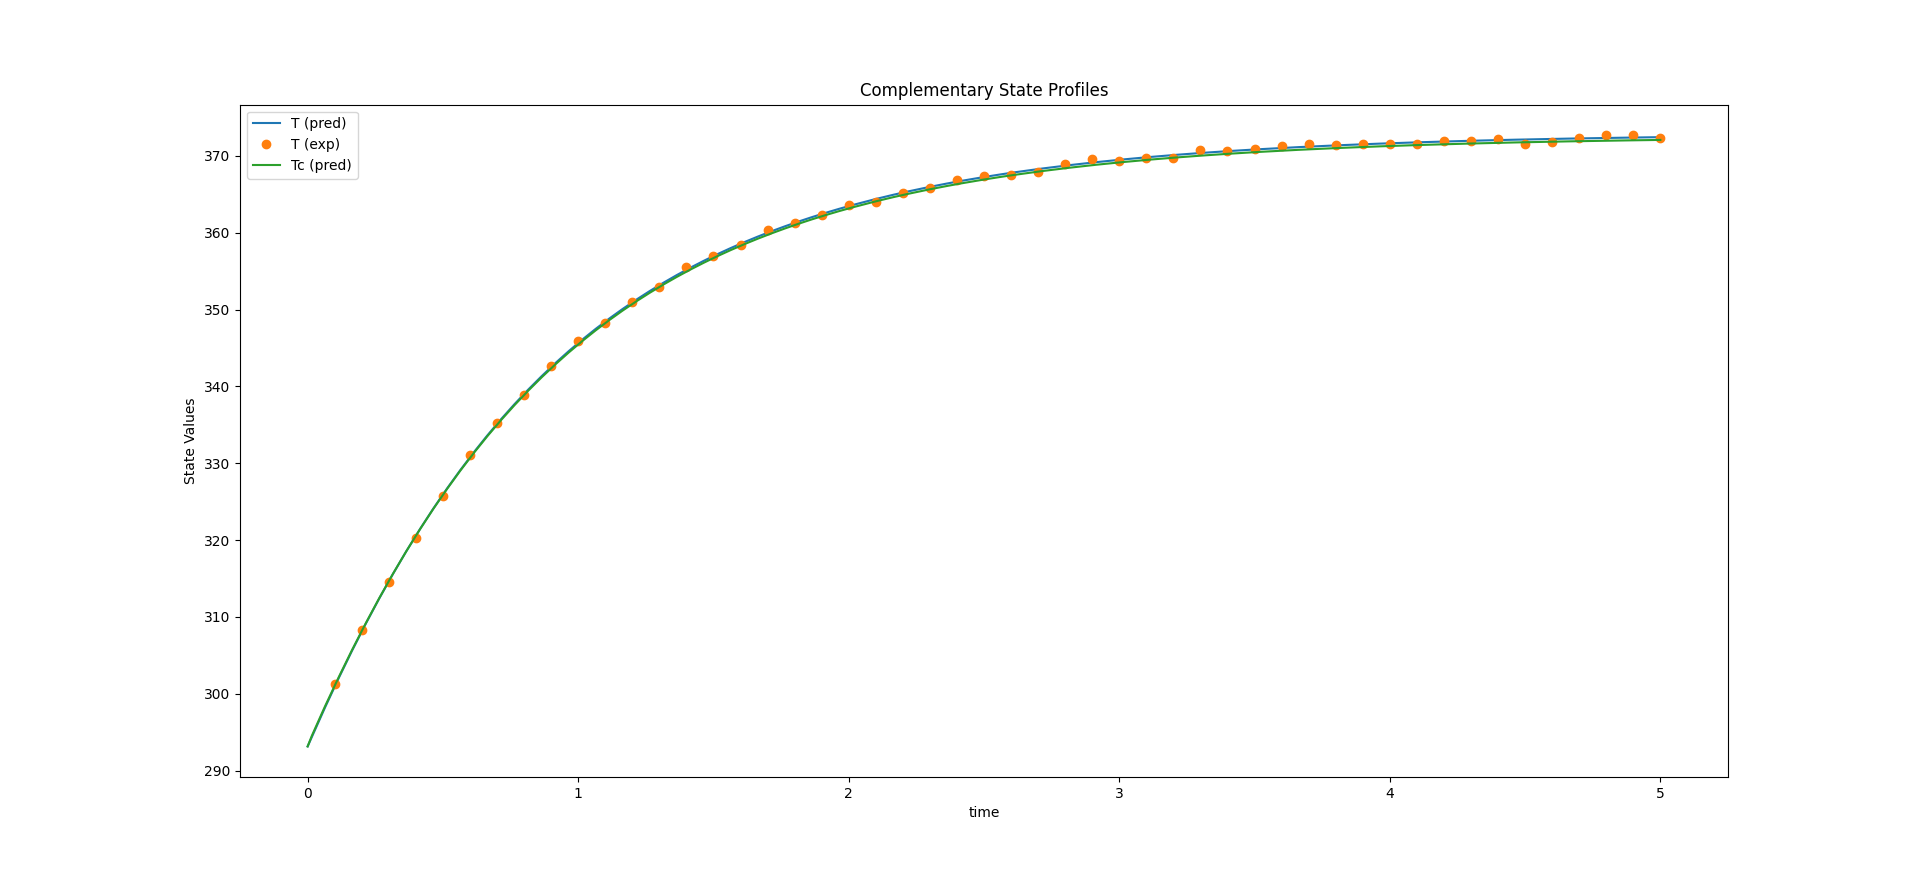
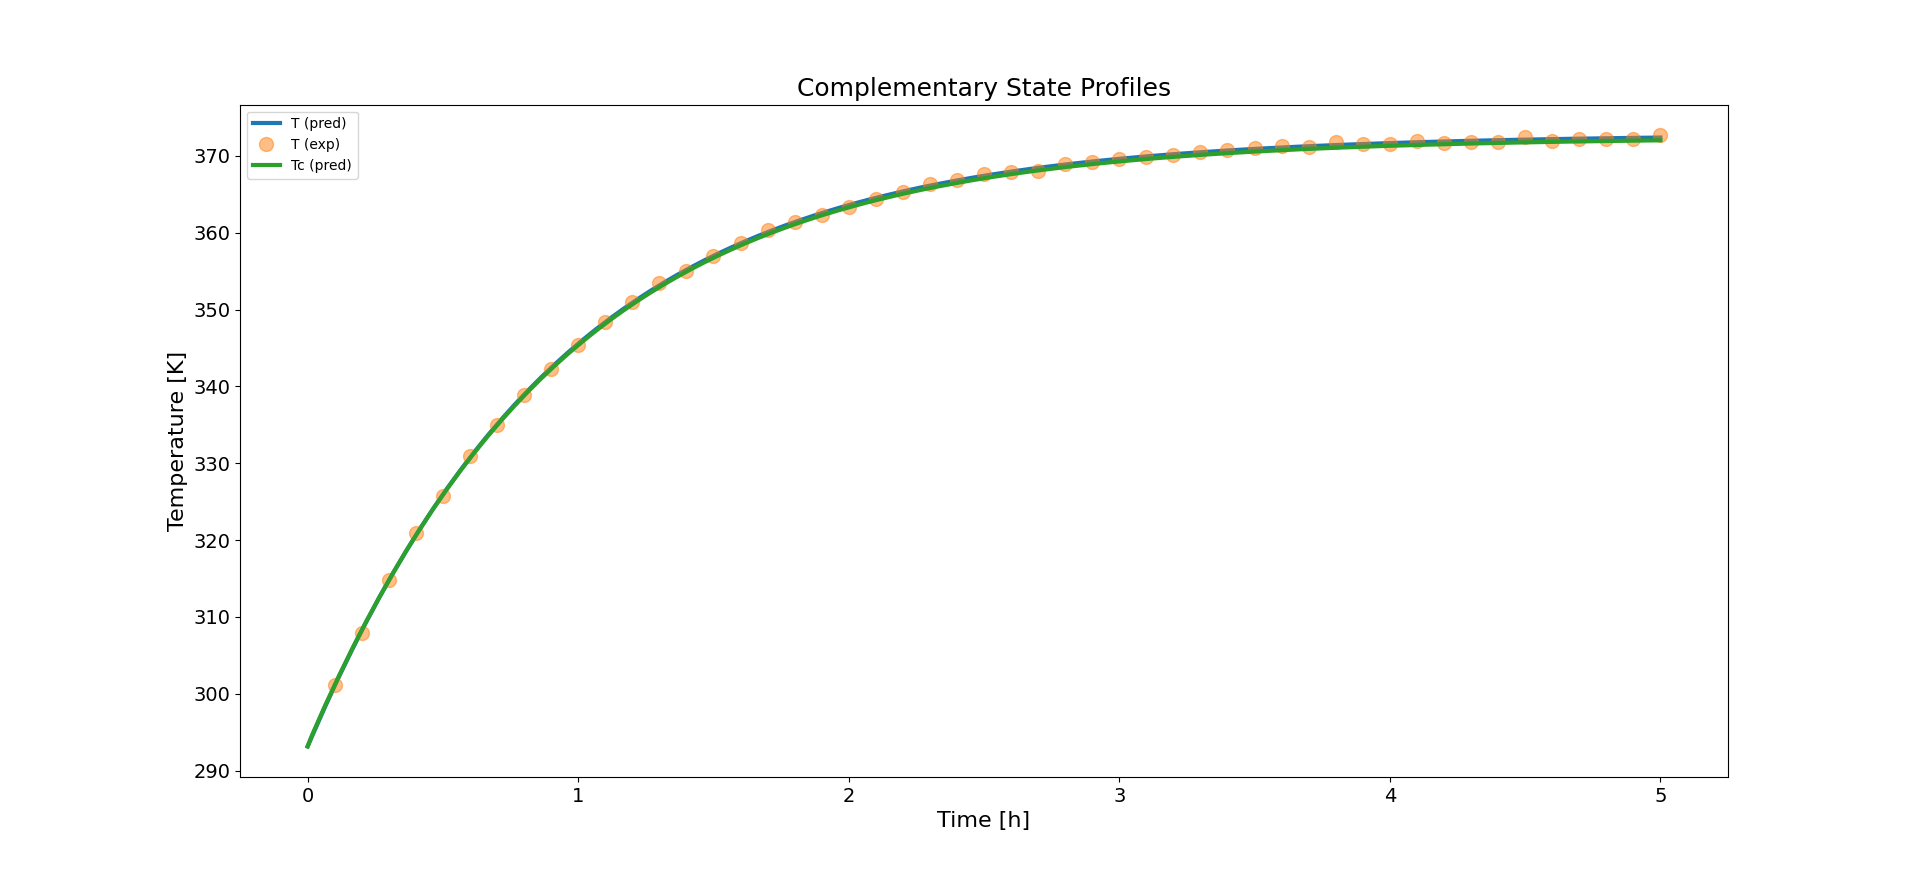
Updated documentation, improved figures

diff --git a/kipet/examples/Ex_CSTR_estimability_temperature_concentration.py b/kipet/examples/Ex_CSTR_estimability_temperature_concentration.py
@@ -1,0 +1,182 @@
+"""
+ 
+Kipet: Kinetic parameter estimation toolkit
+Copyright (c) 2016 Eli Lilly.
+ 
+Example from Chen and Biegler, Reduced Hessian Based Parameter Selection and
+    Estimation with Simultaneous Collocation Approach (AIChE 2020) paper with
+    a CSTR for a simple reaction.
+"""
+
+import sys
+
+import matplotlib.pyplot as plt
+import numpy as np
+import pandas as pd
+
+import pyomo.core as pyomo
+
+from kipet.library.data_tools import add_noise_to_signal
+from kipet.library.EstimationPotential import EstimationPotential
+from kipet.library.PyomoSimulator import PyomoSimulator
+from kipet.library.TemplateBuilder import (
+        TemplateBuilder,
+        Component,
+        KineticParameter,
+        )
+
+def run_simulation(simulator, nfe=50, ncp=3, use_only_FE=True):
+    """This is not necessary, but is used for generating data used in the
+    estimation algorithm
+    """
+    simulator.apply_discretization('dae.collocation',
+                                   ncp = ncp,
+                                   nfe = nfe,
+                                   scheme = 'LAGRANGE-RADAU')
+
+    options = {'solver_opts' : dict(linear_solver='ma57')}
+    
+    results_pyomo = simulator.run_sim('ipopt_sens',
+                                      tee=False,
+                                      solver_options=options,
+                                      )
+
+    if with_plots:
+        results_pyomo.Z.plot.line(legend=True)
+        plt.xlabel("time (h)")
+        plt.ylabel("Concentration (mol/L)")
+        plt.title("Concentration Profile")
+        
+        results_pyomo.X.plot.line(legend=True)
+        plt.xlabel("time (h)")
+        plt.ylabel("Temperature (K)")       
+        plt.title("Temperature Profiles")
+        
+        plt.show()
+    
+    Z_data = pd.DataFrame(results_pyomo.Z)
+    X_data = pd.DataFrame(results_pyomo.X)
+    
+    if use_only_FE:
+        
+        t = np.linspace(0, ncp*nfe, nfe+1).astype(int)
+        
+        Z_data = Z_data.iloc[t, :]
+        X_data = X_data.iloc[t, :]
+        
+        Z_data.drop(index=0, inplace=True)
+        X_data.drop(index=0, inplace=True)
+        
+    return Z_data, X_data, results_pyomo
+
+
+if __name__ == "__main__":
+
+    with_plots = False
+    if len(sys.argv)==2:
+        if int(sys.argv[1]):
+            with_plots = False
+    
+    builder = TemplateBuilder()  
+    
+    components = [
+            Component('A', 1000, 0.1),
+            ]
+        
+    parameters = [
+            KineticParameter('Tf',   (250, 400), 293.15, 0.09),
+            KineticParameter('Cfa',  (0, 5000), 2500, 0.01),
+            KineticParameter('rho',  (800, 2000), 1025, 0.01),
+            KineticParameter('delH', (0.0, 400), 160, 0.01),
+            KineticParameter('ER',   (0.0, 500), 255, 0.01),
+            KineticParameter('k',    (0.0, 10), 2.5, 0.01),
+            KineticParameter('Tfc',  (250, 400), 283.15, 0.01),
+            KineticParameter('rhoc', (0.0, 2000), 1000, 0.01),
+            KineticParameter('h',    (0.0, 5000), 3600, 0.01),
+            ]
+    
+    constants = {
+            'F' : 0.1, # m^3/h
+            'Fc' : 0.15, # m^3/h
+            'Ca0' : 1000, # mol/m^3
+            'V' : 0.2, # m^3
+            'Vc' : 0.055, # m^3
+            'A' : 4.5, # m^2
+            'Cpc' : 1.2, # kJ/kg/K
+            'Cp' : 1.55, #6 kJ/kg/K
+            }
+    
+    # Make it easier to use the constants
+    C = constants
+    
+    builder.add_complementary_state_variable('T',  293.15)
+    builder.add_complementary_state_variable('Tc', 293.15)
+
+    # Prepare components
+    for com in components:
+        builder.add_mixture_component(com.name, com.init)
+    
+    factor = 1.0
+    
+    # Prepare parameters
+    for param in parameters:
+        builder.add_parameter(param.name, param.init*factor)
+      
+    def rule_odes(m,t):
+        
+        Ra = m.P['k']*pyomo.exp(-m.P['ER']/m.X[t,'T'])*m.Z[t,'A']
+        exprs = dict()
+        exprs['A'] = C['F']/C['V']*(m.P['Cfa']-m.Z[t,'A']) - Ra
+        exprs['T'] = C['F']/C['V']*(m.P['Tf']-m.X[t,'T']) + m.P['delH']/(m.P['rho'])/C['Cp']*Ra - m.P['h']*C['A']/(m.P['rho'])/C['Cp']/C['V']*(m.X[t,'T'] - m.X[t,'Tc'])
+        exprs['Tc'] = C['Fc']/C['Vc']*(m.P['Tfc']-m.X[t,'Tc']) + m.P['h']*C['A']/(m.P['rhoc'])/C['Cpc']/C['Vc']*(m.X[t,'T'] - m.X[t,'Tc'])
+        return exprs
+
+    builder.set_odes_rule(rule_odes)
+    times = (0.0, 5.0)
+    builder.set_model_times(times)
+    pyomo_model = builder.create_pyomo_model()
+    simulator = PyomoSimulator(pyomo_model)
+    Z_data, X_data, results = run_simulation(simulator)
+
+    # End of the simulation stages - this is not necessary when using actual data
+
+    noise = {
+            'A' : 0.01,
+            'T' : 0.25,
+            }
+
+    # Here, we will pull three concentration data points from the full simulation results
+    # The exact time point does not matter - they do not need to coincide with other measurements
+    conc_measurement_index = [7, 57, 99]
+    Z_data = results.Z.iloc[conc_measurement_index, :]
+
+    Z_data['A'] = add_noise_to_signal(Z_data['A'], noise['A'])
+    X_data['T'] = add_noise_to_signal(X_data['T'], noise['T'])
+
+    exp_data = pd.concat([X_data['T'], Z_data], axis=1)
+
+    # This is the 20% increase from the original parameter values - not needed in real cases
+    factor = 1.2
+    
+    builder_est = TemplateBuilder() 
+    
+    builder_est.add_complementary_state_variable('T',  293.15)
+    builder_est.add_complementary_state_variable('Tc', 293.15)
+    
+    builder_est.set_odes_rule(rule_odes)
+
+    for com in components:
+        builder_est.add_mixture_component(com.name, com.init)
+    
+    for param in parameters:
+        builder_est.add_parameter(param.name, bounds=param.bounds, init=param.init*factor)
+   
+    # New method to add state variance to the model builder
+    builder_est.add_state_variance(noise)
+    
+    # New method to add times like everything else
+    builder_est.set_model_times(times)
+    
+    est_param = EstimationPotential(builder_est, exp_data, simulation_data=results, verbose=True)
+    est_param.estimate()
+    est_param.plot_results()

diff --git a/kipet/library/EstimationPotential.py b/kipet/library/EstimationPotential.py
@@ -420,6 +420,24 @@ class EstimationPotential(ParameterEstimator):
             None
             
         """
+        line_options = {
+            'linewidth' : 3,
+            }
+        
+        marker_options = {
+            'linewidth' : 1,
+            'markersize' : 10,
+            'alpha' : 0.5,
+            }
+        
+        title_options = {
+            'fontsize' : 18,
+            }
+        
+        axis_options = {
+            'fontsize' : 16,
+            }
+        
         exp_data = list(self.model.measured_data.keys())
         
         if len(self.model.mixture_components.value) > 0:
@@ -433,17 +451,19 @@ class EstimationPotential(ParameterEstimator):
                     if col not in exp_data:
                         dfc.drop(columns=[col], inplace=True)
             
-            plt.figure()
+            plt.figure(figsize=(4,3))
             
             for col in dfz.columns:
-                plt.plot(dfz[col], label=col + ' (pred)')
+                plt.plot(dfz[col], label=col + ' (pred)', **line_options)
                 if dfc is not None:
                     if col in dfc.columns:
-                        plt.plot(dfc[col], 'o', label=col + ' (exp)')
+                        plt.plot(dfc[col], 'o', label=col + ' (exp)', **marker_options)
                     
-            plt.xlabel("time")
-            plt.ylabel("Concentration (mol/L)")
-            plt.title("Concentration Profile")
+            plt.xlabel("Time [h]", **axis_options)
+            plt.ylabel("Concentration (mol/L)", **axis_options)
+            plt.title("Concentration Profile", **title_options)
+            plt.xticks(fontsize=14)
+            plt.yticks(fontsize=14)
             
             plt.legend()
             plt.show()
@@ -462,14 +482,16 @@ class EstimationPotential(ParameterEstimator):
             plt.figure()
             
             for col in dfx.columns:
-                plt.plot(dfx[col], label=col + ' (pred)')
+                plt.plot(dfx[col], label=col + ' (pred)', **line_options)
                 if dfu is not None:
                     if col in dfu.columns:
-                        plt.plot(dfu[col], 'o', label=col + ' (exp)')
+                        plt.plot(dfu[col], 'o', label=col + ' (exp)', **marker_options)
             
-            plt.xlabel("time")
-            plt.ylabel("State Values")       
-            plt.title("Complementary State Profiles")
+            plt.xlabel("Time [h]", **axis_options)
+            plt.ylabel("Temperature [K]", **axis_options)       
+            plt.title("Complementary State Profiles", **title_options)
+            plt.xticks(fontsize=14)
+            plt.yticks(fontsize=14)
         
             plt.legend()
             plt.show()

diff --git a/documentation/content/tutorials.rst b/documentation/content/tutorials.rst
@@ -1149,17 +1149,20 @@ Included in this tutorial problem is the ability to compare solutions with the s
 
 Tutorial 16 – Simultaneous Parameter Selection and Estimation
 --------------------------------------------------------------------------------
-This tutorial introduces an recently developed method for parameter subset selection developed by Chen and Biegler (2020).
-One of the benefits of the methodology is that it reduces the difficulty in selecting which parameters to fix and which to estimate.
-This is achieved by ranking parameter estimabilty based on the ratio of their standard deviation to estimated value.
 
-The core of the method lies in the use of the reduced hessian matrix, owing to its direct relationship to the covariance matrix of the estimated parameters.
-A Gauss-Jordan elimination approach is used to rank the parameters by estimability, which has been shown to be less computationally demanding than previous methods based on eigenvalues.
+The complex models used in reaction kinetic models require accurate parameter estimates.
+However, it may not be difficult to make accurate estimates for all of the parameters.
+To this end, various techniques have been developed to identify parameter subsets that can best be estimated while the remaining parameters are fixed to some initial value.
+The selection of this subset is still a challenge.
 
-The EstimationPotential module is used for the simultaneous method described here and is currently separate from the EstimabilityAnalyzer module used otherwise for estimability (see Tutorial 12).
-This module can be used with all forms of complementary state data, such as temperature and pressure, which can now be included in the anayysis.
-The methods rely on k_aug to obtain sensitivities, so will only work if k_aug is installed and added to the path.
-The example from the example directory is “Ex_16_estimability_cstr.py”.
+One such method for parameter subset selection was recently developed by Chen and Biegler (2020).
+This method uses a reduced hessian approach to select parameters and estimate their values simultaneously using a collocation approach.
+Parameter estimabilty is based on the ratio of their standard deviation to estimated value, and a Gauss-Jordan elimination method strategy is used to rank parameter estimability.
+This has been shown to be less computationally demanding than previous methods based on eigenvalues.
+For more details about how the algorithm works, the user is recommended to read the article "Reduced Hessian Based Parameter Selection and Estimation with Simultaneous Collocation Approach" by Weifeng Chen and Lorenz T. Biegler, AIChE 2020.
+
+In Kipet, this method is implemented using the EstimationPotential module. It is currently separate from the EstimabilityAnalyzer module used otherwise for estimability (see Tutorial 12).
+Kipet can now handle complementary state data, such as temperature and pressure, in its analysis. This should improve the user experience and lead to more robust results.
 
 This module is used in a slightly different manner than other modules in Kipet. The EstimationPotential class requires
 the TemplateBuilder instance of the model as the first argument (the models are declared internally). This is followed by the experimental data. Yes, this form of
@@ -1167,10 +1170,27 @@ estimability analysis requires experimental data because the analysis depends on
 the example CSTR problem in this example includes simulated data at the "true" parameter values. Optional arguments include
 simulation_data, which takes a Results instance as input. This is recommended for complex systems that require good initilizations.
 If no simulation data is provided, the user can use the argument simulate_start to select whether a simulation should be performed internally; performance may vary here, so it is usually better to provide your own simulated data as above.
+As before, the simultaneous parameter selection and estimation method relies on the reduced hessian and therefore the method relies on k_aug to obtain sensitivities,
+and will only work if k_aug is installed and added to the path.
+
+This tutorial has two examples based on the CSTR example from the paper by Chen and Biegler.
+
+The first example from the example directory is “Ex_16_CSTR_estimability_temperature.py”. A new method for TemplateBuilder (set_model_times) has been implemented
+for entering the start and end times for the pyomo model as an attribute of the TemplateBuilder. The previous API still works, and if using this format, a time attribute
+needs to be provided to EstimationPotential.
+
+The option verbose allows one to display the output of the various steps in the algorithm.
 
 ::
 
+    builder_est.set_model_times((0.0, 5.0))
     est_param = EstimationPotential(builder_est, exp_data, simulation_data=results, verbose=True)
+
+or similarily:
+
+::
+
+    est_param = EstimationPotential(builder_est, exp_data, time=(0.0, 5.0) simulation_data=results, verbose=True)
 
 To start the simultaneous parameter selection and estimation routine, simply use the estimate method. 
 Optionally, using the plot_results method, you can see separate plots for the concentration and complementary states data, if provided.
@@ -1204,6 +1224,7 @@ discrepancies in measurement times.
 
 ::
 
+    # Three randomly chosen values from the concentration index
     conc_measurement_index = [7, 57, 99]
     Z_data = results.Z.iloc[conc_measurement_index, :]
 
@@ -1211,6 +1232,8 @@ discrepancies in measurement times.
     X_data['T'] = add_noise_to_signal(X_data['T'], noise['T'])
 
     exp_data = pd.concat([X_data['T'], Z_data], axis=1)
+    
+    est_param = EstimationPotential(builder_est, exp_data, time=(0.0, 5.0) simulation_data=results, verbose=True)
 
 Compare the results with those from previously.
     
@@ -1368,6 +1391,13 @@ The next section of the documentation provides more detailed and miscellaneous f
    | Ex_13_alt_variance_tutorial.py                 | Tutorial 14 problem with generated data to show how to|
    |						    | use the new method for obtaining overall and/or       |
    |						    | individual model variances using the secant method.   | 
+   +------------------------------------------------+-------------------------------------------------------+
+   | Ex_16_CSTR_estimability_temperature.py         | Tutorial 16 problem with the CSTR problem from the    | 
+   |                                                | paper by Chen and Biegler                             | 
+   +------------------------------------------------+-------------------------------------------------------+
+   | Ex_16_CSTR_estimability_temperature_concentration.py   | Tutorial 16 problem with the CSTR problem from the | 
+   |                                                        | paper by Chen and Biegler with temperature and     |
+   |                                                        | concentration data                                 | 
    +------------------------------------------------+-------------------------------------------------------+
    | Ad_1_estimation.py                             | Additional parameter estimation problem with known    |
    |						    | variances, but with a least squares optimization run  |
